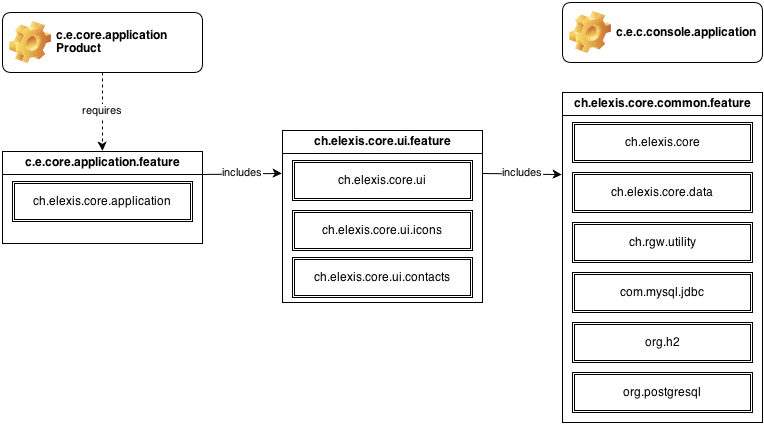
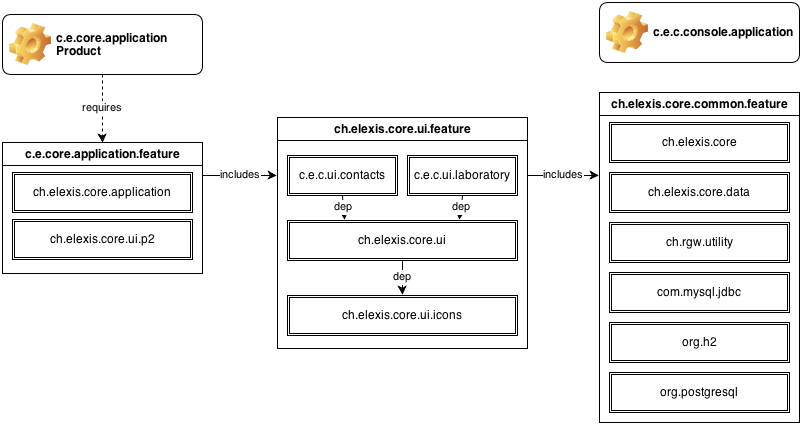
Documentation update

diff --git a/README.md b/README.md
@@ -14,6 +14,8 @@ This repository hosts the core forming Elexis 3. It consists of the following pl
 * `ch.elexis.core.releng` Release Engineering specific parts (Build Target, 3rd party ...)
 * `ch.elexis.core.ui.icons` Plug-In for central icon management.
 * `ch.elexis.core.ui.contacts` Plug-In for contact management.
+* `ch.elexis.core.ui.laboratory` Plug-In for laboratory related tasks.
+* `ch.elexis.core.ui.p2` Plug-In to realize client side p2 update tasks
 * `ch.elexis.core.common.feature`	Headless Core Feature.
 * `ch.elexis.core.ui.feature` Core UI Feature.
 * `ch.elexis.core.application.feature` Core Application Feature.
